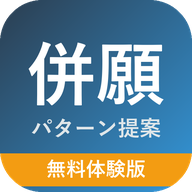
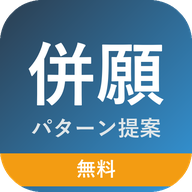
無料ページの表示を「無料体験版」から「無料で使えます」に変更（役員指示 2026-10-08）
バッジ・見出しの説明・ページ名・共有タイトル・ホーム画面の名前とアイコン帯を変更。機能・鍵の範囲は変更なし。

Changed region(s): [[0.25, 0.8125, 0.75, 0.9375]]

diff --git a/try/index.html b/try/index.html
@@ -3,7 +3,7 @@
 <head>
 <meta charset="UTF-8">
 <meta name="viewport" content="width=device-width, initial-scale=1.0">
-<title>中学受験 併願パターン提案ツール（無料体験版）</title>
+<title>中学受験 併願パターン提案ツール（無料で使えます）</title>
 <!-- v1.4: ホーム画面に置けるようにする（体験版はビルド時に manifest・アイコンを差し替え） -->
 <link rel="manifest" href="manifest.webmanifest">
 <meta name="theme-color" content="#2c3e50">
@@ -11,7 +11,7 @@
 <link rel="icon" type="image/png" sizes="192x192" href="../icons/try-192.png">
 <meta name="apple-mobile-web-app-capable" content="yes">
 <meta name="mobile-web-app-capable" content="yes">
-<meta name="apple-mobile-web-app-title" content="併願ツール体験">
+<meta name="apple-mobile-web-app-title" content="併願ツール無料">
 <meta name="apple-mobile-web-app-status-bar-style" content="default">
 <link rel="preconnect" href="https://fonts.googleapis.com">
 <link href="https://fonts.googleapis.com/css2?family=Noto+Sans+JP:wght@400;500;700&display=swap" rel="stylesheet">
@@ -1032,7 +1032,7 @@ a.act-btn { display: inline-flex; align-items: center; justify-content: center; 
 <div id="appMain" style="display:block;">
 
 <div class="header">
-  <div class="trial-badge" id="trialBadge" hidden>無料体験版</div>
+  <div class="trial-badge" id="trialBadge" hidden>無料で使えます</div>
   <h1>併願パターン提案ツール</h1>
   <p id="headerLead">条件を入力すると、併願パターンを自動で提案します</p>
   <button type="button" class="install-btn" id="installBtnTop" hidden onclick="installApp()">📱 スマホアプリにする</button>
@@ -6825,9 +6825,9 @@ function trialFirstLockedLabel() {
 /** 体験版の画面に切り替える（鍵マーク・バッジ・文言） */
 function applyTrialMode() {
   if (!TRIAL) return;
-  document.title = '中学受験 併願パターン提案ツール（無料体験版）';
+  document.title = '中学受験 併願パターン提案ツール（無料で使えます）';
   document.getElementById('trialBadge').hidden = false;
-  document.getElementById('headerLead').textContent = '条件を入れると、併願パターンの一部を無料でお試しできます';
+  document.getElementById('headerLead').textContent = '条件を入れるだけで、併願パターンを無料で作れます';
   const lockToggle = (sectionId, label, feature) => {
     const btn = document.querySelector(`button[onclick*="${sectionId}"]`);
     if (!btn) return;
@@ -6842,7 +6842,7 @@ function applyTrialMode() {
   cl.value = '0';
   cl.disabled = true;
   const help = document.getElementById('commuteLimitHelp');
-  help.innerHTML = '🔒 通学時間での絞り込みは<b>完全版</b>で使えます（所要時間の目安の表示は体験版でも出ます）。';
+  help.innerHTML = '🔒 通学時間での絞り込みは<b>完全版</b>で使えます（所要時間の目安は無料でも表示します）。';
   help.classList.add('lock-note');
 }
 
@@ -6922,7 +6922,7 @@ async function tellFriends() {
   const url = location.origin + location.pathname;
   const text = 'お子さまの条件を入れると、中学受験の併願パターンを組み立ててくれる無料ツールです';
   if (navigator.share) {
-    try { await navigator.share({ title: '併願パターン提案ツール（無料体験版）', text: text, url: url }); return; } catch (e) { if (e && e.name === 'AbortError') return; }
+    try { await navigator.share({ title: '併願パターン提案ツール（無料で使えます）', text: text, url: url }); return; } catch (e) { if (e && e.name === 'AbortError') return; }
   }
   openSheet('この無料ツールを人に教える', `<p class="share-url">${url}</p>
     <div class="share-grid">

diff --git a/index.html b/index.html
@@ -1032,7 +1032,7 @@ a.act-btn { display: inline-flex; align-items: center; justify-content: center; 
 <div id="appMain" style="display:none;">
 
 <div class="header">
-  <div class="trial-badge" id="trialBadge" hidden>無料体験版</div>
+  <div class="trial-badge" id="trialBadge" hidden>無料で使えます</div>
   <h1>併願パターン提案ツール</h1>
   <p id="headerLead">条件を入力すると、併願パターンを自動で提案します</p>
   <button type="button" class="install-btn" id="installBtnTop" hidden onclick="installApp()">📱 スマホアプリにする</button>
@@ -6825,9 +6825,9 @@ function trialFirstLockedLabel() {
 /** 体験版の画面に切り替える（鍵マーク・バッジ・文言） */
 function applyTrialMode() {
   if (!TRIAL) return;
-  document.title = '中学受験 併願パターン提案ツール（無料体験版）';
+  document.title = '中学受験 併願パターン提案ツール（無料で使えます）';
   document.getElementById('trialBadge').hidden = false;
-  document.getElementById('headerLead').textContent = '条件を入れると、併願パターンの一部を無料でお試しできます';
+  document.getElementById('headerLead').textContent = '条件を入れるだけで、併願パターンを無料で作れます';
   const lockToggle = (sectionId, label, feature) => {
     const btn = document.querySelector(`button[onclick*="${sectionId}"]`);
     if (!btn) return;
@@ -6842,7 +6842,7 @@ function applyTrialMode() {
   cl.value = '0';
   cl.disabled = true;
   const help = document.getElementById('commuteLimitHelp');
-  help.innerHTML = '🔒 通学時間での絞り込みは<b>完全版</b>で使えます（所要時間の目安の表示は体験版でも出ます）。';
+  help.innerHTML = '🔒 通学時間での絞り込みは<b>完全版</b>で使えます（所要時間の目安は無料でも表示します）。';
   help.classList.add('lock-note');
 }
 
@@ -6922,7 +6922,7 @@ async function tellFriends() {
   const url = location.origin + location.pathname;
   const text = 'お子さまの条件を入れると、中学受験の併願パターンを組み立ててくれる無料ツールです';
   if (navigator.share) {
-    try { await navigator.share({ title: '併願パターン提案ツール（無料体験版）', text: text, url: url }); return; } catch (e) { if (e && e.name === 'AbortError') return; }
+    try { await navigator.share({ title: '併願パターン提案ツール（無料で使えます）', text: text, url: url }); return; } catch (e) { if (e && e.name === 'AbortError') return; }
   }
   openSheet('この無料ツールを人に教える', `<p class="share-url">${url}</p>
     <div class="share-grid">
